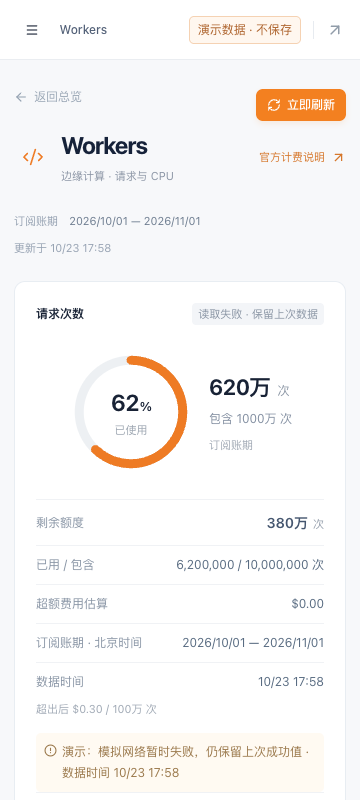
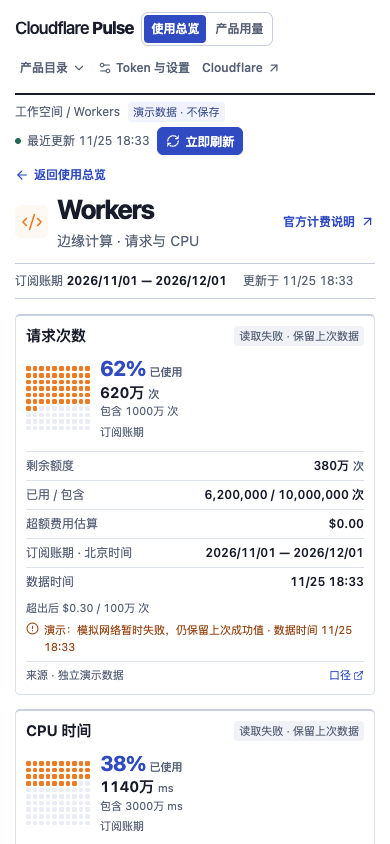
docs: refresh dashboard README and demo screenshots

diff --git a/README.md b/README.md
@@ -20,9 +20,42 @@
 
 </div>
 
-![旧版使用总览的演示截图](docs/acceptance/screenshots/overview-demo.png)
+## 界面预览
 
-> 所有公开截图均来自独立演示模式，数字为合成样例。当前版本已完成本地验证，可按部署说明发布到自己的 Workers 实例。
+使用顶部的 **使用总览** 和 **产品用量** 页签切换页面。以下截图均来自演示账户，使用合成数据。
+
+### 使用总览
+
+同一页可查看当前账期、已知费用、额度预警和数据状态。**核心资源额度**按预警优先展示最多六项指标。状态正常时，同一指标的弧线和百分比使用对应的彩虹色。接近额度时显示橙色，额度紧张或超额时显示红色。
+
+点选弧线、标签或下方的指标行可切换读数。选中的弧线会加粗，读数区显示已用量、包含额度或平台上限、剩余或超出量，以及计量周期和数据状态。
+
+![使用总览演示，显示彩虹同心刻度盘、指标读数和账期概况](docs/acceptance/screenshots/overview-demo.png)
+
+### 产品用量
+
+在页面上方切换视图，可在三种视图中使用同一组产品分类筛选。进入产品详情再返回时，会保留当前视图和分类。
+
+| 视图 | 显示内容 |
+| --- | --- |
+| **产品矩阵**（默认） | 在卡片中浏览各产品的主要用量、剩余或超出量和数据状态，点选卡片进入详情。 |
+| **额度排行** | 按各产品已知的最高额度使用率排序，有 80% 预警线，便于找到接近或超过额度的产品。 |
+| **指标明细** | 逐项查看计量周期、已用量、额度、剩余或超出量，以及使用比例和数据状态。 |
+
+![产品用量演示，显示分类筛选、三个视图入口和产品矩阵](docs/acceptance/screenshots/product-usage-demo.png)
+
+<details>
+<summary><strong>查看超额与手机端读取失败演示</strong></summary>
+
+Workers 请求次数达到额度的 125% 时，详情同时展示实际使用比例、超出量和费用估算。
+
+![Workers 请求次数达到额度的 125%，显示超出 250 万次和估算费用](docs/acceptance/screenshots/overage-demo.png)
+
+同周期的临时读取失败会保留上次成功值，并标明原数据时间。
+
+<img src="docs/acceptance/screenshots/error-demo-mobile.png" alt="手机端 Workers 详情在读取失败后显示上次成功值 620 万次及其数据时间" width="360" />
+
+</details>
 
 ## 能做什么
 
@@ -37,20 +70,6 @@
 | **手机也能用**   | 响应式布局、双页签与可展开的产品目录，显示 USD 金额与北京时间。            |
 
 只保存最新状态，不采集历史序列，不运行定时任务，也不做费用预测。
-
-## 界面预览
-
-### 超额，也看得清楚
-
-![Workers 超额演示：已使用 125%，同时显示超出量和费用估算](docs/acceptance/screenshots/overage-demo.png)
-
-<details>
-<summary><strong>查看手机端：读取失败时保留上次成功值</strong></summary>
-
-<br />
-<img src="docs/acceptance/screenshots/error-demo-mobile.png" alt="手机端独立演示：读取失败后保留上次数据和原数据时间" width="360" />
-
-</details>
 
 ## 快速开始
 
@@ -75,6 +94,7 @@ npm run dev
 | 场景     | 本地地址                                                            |
 | -------- | ------------------------------------------------------------------- |
 | 使用总览 | [正常用量](http://127.0.0.1:5173/?demo=normal)                      |
+| 产品用量 | [三种产品视图](http://127.0.0.1:5173/usage?demo=normal)              |
 | 接近额度 | [85% 预警](http://127.0.0.1:5173/products/workers?demo=warning)     |
 | 超出额度 | [125% 超额](http://127.0.0.1:5173/products/workers?demo=overage)    |
 | 临时失败 | [保留最后成功值](http://127.0.0.1:5173/products/workers?demo=error) |
